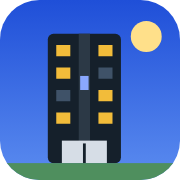
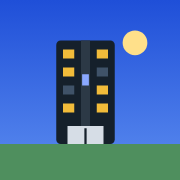
Icône d'écran d'accueil : manifeste et icônes PNG
Chrome Android ignore les icônes en data URI pour « Ajouter à l'écran
d'accueil ». La page GitHub Pages pointe désormais vers des fichiers :
manifest.webmanifest (mode plein écran), icônes 192/512, icône adaptative
(maskable) et apple-touch-icon.

Claude-Session: https://claude.ai/code/session_01TxH2TWPW5rcf62xn2yEvCu

diff --git a/docs/index.html b/docs/index.html
@@ -1,7 +1,5 @@
-<!doctype html><html lang="fr"><head><meta charset="utf-8"><meta name="viewport" content="width=device-width,initial-scale=1,viewport-fit=cover"><style>:root{color-scheme:light;padding-top:env(safe-area-inset-top,0px);padding-bottom:env(safe-area-inset-bottom,0px)}body{margin:0;font:14px system-ui}img{max-width:100%}[hidden]{display:none!important}</style></head><body><title>Verticale</title>
+<!doctype html><html lang="fr"><head><meta charset="utf-8"><meta name="viewport" content="width=device-width,initial-scale=1,viewport-fit=cover"><style>:root{color-scheme:light;padding-top:env(safe-area-inset-top,0px);padding-bottom:env(safe-area-inset-bottom,0px)}body{margin:0;font:14px system-ui}img{max-width:100%}[hidden]{display:none!important}</style><link rel="icon" type="image/svg+xml" href="favicon.svg"><link rel="icon" type="image/png" sizes="192x192" href="icon-192.png"><link rel="apple-touch-icon" href="apple-touch-icon.png"><link rel="manifest" href="manifest.webmanifest"><meta name="theme-color" content="#1f4fd8"><meta name="mobile-web-app-capable" content="yes"><meta name="apple-mobile-web-app-capable" content="yes"><meta name="apple-mobile-web-app-title" content="Verticale"></head><body><title>Verticale</title>
 <meta name="claude:viewport-fit-sides" content="cover">
[2 lines of base64/hex data omitted]
 <link rel="preconnect" href="https://fonts.googleapis.com">
 <link rel="preconnect" href="https://fonts.gstatic.com" crossorigin>
 <link rel="stylesheet" href="https://fonts.googleapis.com/css2?family=Big+Shoulders+Display:wght@600;800&family=Public+Sans:wght@400;600;700&display=swap">

diff --git a/build.js b/build.js
@@ -12,8 +12,13 @@ const page = t.replace('/*@@ENGINE@@*/', () => e).replace('/*@@UI@@*/', () => u2
 if (process.env.PAGES) {
   const head = '<!doctype html><html lang="fr"><head><meta charset="utf-8"><meta name="viewport" content="width=device-width,initial-scale=1,viewport-fit=cover">' +
     '<style>:root{color-scheme:light;padding-top:env(safe-area-inset-top,0px);padding-bottom:env(safe-area-inset-bottom,0px)}body{margin:0;font:14px system-ui}img{max-width:100%}[hidden]{display:none!important}</style></head><body>';
+  // GitHub Pages : icônes en fichiers + manifeste (Chrome Android ignore les icônes en data URI pour l'écran d'accueil).
+  const icons = '<link rel="icon" type="image/svg+xml" href="favicon.svg"><link rel="icon" type="image/png" sizes="192x192" href="icon-192.png">' +
+    '<link rel="apple-touch-icon" href="apple-touch-icon.png"><link rel="manifest" href="manifest.webmanifest"><meta name="theme-color" content="#1f4fd8">' +
+    '<meta name="mobile-web-app-capable" content="yes"><meta name="apple-mobile-web-app-capable" content="yes"><meta name="apple-mobile-web-app-title" content="Verticale">';
+  const pg = page.replace(/<link rel="icon"[^>]*>\n?/, '').replace(/<link rel="apple-touch-icon"[^>]*>\n?/, '');
   fs.mkdirSync('docs', { recursive: true });
-  fs.writeFileSync('docs/index.html', head + page + '</body></html>');
+  fs.writeFileSync('docs/index.html', head.replace('</head>', icons + '</head>') + pg + '</body></html>');
   console.log('docs/index.html', page.length, 'octets');
 } else {
   fs.mkdirSync('dist', { recursive: true });
